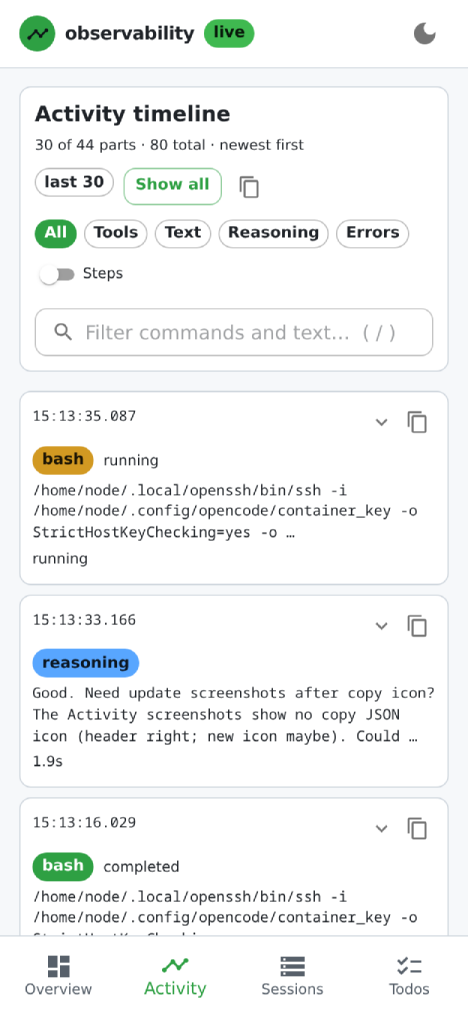
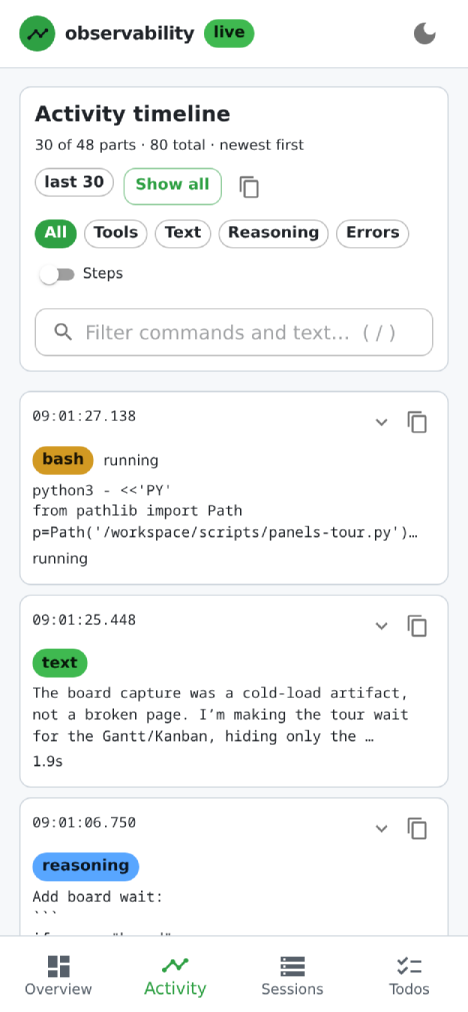
docs: refresh READMEs, screenshots, and 2026-11-05 handoff

diff --git a/scripts/panels-tour.py b/scripts/panels-tour.py
@@ -125,7 +125,17 @@ def main() -> int:
         for name, path in PANELS:
             try:
                 pg.goto(a.base + path, wait_until="domcontentloaded", timeout=30000)
-                pg.wait_for_timeout(6000)  # let SSE snapshot + charts render
+                if name == "board":
+                    try:
+                        pg.wait_for_selector("#boardgantt svg", timeout=60000)
+                    except Exception:
+                        pg.wait_for_timeout(2000)
+                else:
+                    pg.wait_for_timeout(6000)  # let SSE snapshot + charts render
+                try:
+                    pg.evaluate("var e=document.getElementById('rev'); if(e) e.style.display='none'")
+                except Exception:
+                    pass
                 shot = str(out / ("status-%s.png" % name))
                 pg.screenshot(path=shot)
                 shrink(shot, repo)

diff --git a/README.md b/README.md
@@ -6,39 +6,47 @@ through a local guard. A separate RAG repo provides local document retrieval.
 The stack runs on one host (`ws24`, `192.168.4.24`); there is no cloud control
 plane.
 
-## Latest verified state (2026-11-04)
+## Latest verified state (2026-11-05)
 
-- The web UI and the `:5099` dashboard are running. The dashboard streams
-  cost, todos, and one combined **activity timeline** (the old Live activity and
-  diagnostic timeline are merged): newest first, filter chips, 30/all toggle,
-  per-row expand/copy, start dot on the time axis, relative-duration bar, exact
-  duration, full command/text, and a moving "now" line. It is responsive at
-  390 px and has an installable PWA shell for Android Chrome. A **separate
-  MUI/React app** is available at `/app/` (source `web/`; build with
-  `cd web && npm ci && npm run build`).
+- The web UI, legacy dashboard `/`, and MUI app `/app/` are live. Canonical
+  access: `https://10.100.0.24:5099/app/` (MUI), `https://10.100.0.24:5099`
+  (legacy dashboard), or 443 `https://10.100.0.24/app/`. The 443 site redirects
+  `/5099` and `/4096` to the real ports. `:4096` is the agent UI behind Basic
+  auth (`401` is alive).
+- The combined **activity timeline** is live on both UIs: newest first, filters,
+  30/all, expand/copy, full command/text, exact duration, start dot, relative
+  bar, and a **`time · now`** legend with a red marker. Legacy and MUI headers
+  no longer collide.
+- TLS is redundant and verified: 443/4096/5099 on loopback, Nebula
+  (`10.100.0.24`), LAN (`192.168.4.24`), and Tailscale
+  (`100.119.125.16`); SANs cover all of them. The public CA is downloadable at
+  `/ca.crt`; the PC was trusted for system, Firefox, and Chromium stores.
+- `https-selfheal.sh` checks/repairs SANs, Caddy, ports, CA, CORS/PNA, and the
+  dashboard; `trust-ca-client.sh` bootstraps a client CA. Both pass on the host
+  and the client check passes on the PC.
+- MUI/React `web/` is served at `/app/`; the public Pages app
+  <https://swipswaps.github.io/opencode-observability/> probes the live API and
+  falls back to real captured screenshots when the private API is unreachable.
 - LiteLLM has a private Postgres. The admin UI at `127.0.0.1:4000/ui` accepts
   `admin` + `LITELLM_MASTER_KEY` (HTTP 200); `/v1/models` is 200.
 - Provider keys were rotated. The guard allows benign reads and denies
   destructive, exfiltration, and quote/substitution-obfuscated calls.
-- TLS was reissued with the **same local CA**, so browsers that trusted the CA
-  keep working.
-- Security posture: **16 of 19** checks pass. The 3 remaining are the
-  repo-mounted secrets (`.env.local`, `docker/litellm-db.env`,
-  `docker/certs/*`); the empty binds in the override clear them on the next
-  `web-restart.sh --recreate` (expect 19/0).
-- Artifact scan: **0 findings in 2224 files**.
-- Gates: fast harness **3/0 in 73s**; lint **328/0**; test-hygiene **63/0**;
-  dashboard inline-script execution test **PASS** (home + explore).
+- Security posture remains **16 of 19** pending the staged SEC-3 recreate
+  (repo-mounted secrets; expect 19/0 after).
+- Verified gates: lint **335/0**, README audit **8/0**, panels **12/12**,
+  inline UI/PWA test PASS, `certs-verify` ALL PASS, `https-selfheal --check`
+  ALL PASS, PC strict TLS 200/verify=0 on 5099 + 443 + LAN.
 
 ## Start here (first 10 minutes)
 
 If you are new, read in this order:
 
 1. this README (what exists and how to start it),
-2. [`HANDOFF.md`](HANDOFF.md) (current state, open risks),
-3. [`RULES.md`](RULES.md) (constraints the scripts enforce),
-4. [`TODO.md`](TODO.md) (what is queued),
-5. [`scripts/README.txt`](scripts/README.txt) (one entry per tool).
+2. [`docs/HANDOFF-2026-11-05.md`](docs/HANDOFF-2026-11-05.md) (current handoff),
+3. [`HANDOFF.md`](HANDOFF.md) (durable history and PINs),
+4. [`RULES.md`](RULES.md) (constraints the scripts enforce),
+5. [`TODO.md`](TODO.md) (what is queued),
+6. [`scripts/README.txt`](scripts/README.txt) (one entry per tool).
 
 Minimal path:
 
@@ -52,16 +60,18 @@ cd ~/Documents/9e3e0363-0237-4c38-93dc-ce25e2f1ec37/repo
 ./scripts/harness.sh --fast   # gates, telemetry, cost, TODO
 ```
 
-Then open the agent at `https://127.0.0.1:4096` and the read-only dashboard at
-`https://127.0.0.1:5099` (Basic auth from `.env.local`; `401` from a bare
-`curl` means the server is alive).
+Then open the agent at `https://10.100.0.24:4096` (Basic auth from
+`.env.local`) and the dashboard at `https://10.100.0.24:5099`. The MUI app is
+`/app/`; use `https://10.100.0.24/app/` (443) if you want no port. Trust the CA
+once with `./scripts/trust-ca-client.sh --server https://10.100.0.24:5099` or
+download `/ca.crt`. `10.100.0.1` is the client PC, not the server.
 
 ## What runs where
 
 | Piece | Type | Where | Address | What it does |
 |---|---|---|---|---|
 | `opencode-web` | container | Docker | `:4096`, `:5099` | agent web UI + dashboard sidecar |
-| `caddy` | container | Docker | `:443`, `:4096`, `:5099` | TLS edge; binds host IPs |
+| `caddy` | container | Docker | `:443`, `:4096`, `:5099` | TLS edge; loopback + Nebula + LAN + Tailscale |
 | `litellm` | container | Docker | `127.0.0.1:4000` | local model proxy / master key |
 | `litellm-db` | container | Docker | internal | private Postgres for proxy auth + spend |
 | `opencode-grafana` | container | Docker | `127.0.0.1:3001` | optional ops view (may be paused) |
@@ -102,6 +112,9 @@ Data lives under `data/` (`opencode/` store, `observability/` logs and DBs).
 | run the adversarial gate | `./scripts/red-team.sh` (`--offline` skips SubQ) |
 | audit security posture | `./scripts/security-posture.sh` |
 | rotate the TLS leaf (same CA) | `./scripts/rotate-tls.sh --apply --yes` |
+| monitor/self-heal HTTPS + CA | `./scripts/https-selfheal.sh --check` / `--fix --watch` |
+| trust the CA on the PC | `./scripts/trust-ca-client.sh --server https://10.100.0.24:5099` |
+| refresh screenshots | `python3 scripts/panels-tour.py --no-video` |
 | scrub leaked artifacts | `./scripts/scrub-secrets.sh --apply --yes --purge-snapshots --purge-env-backups` |
 | inspect model policy/cost | `./scripts/models.sh`, `./scripts/cost.sh` |
 | use the RAG engine | `cd ../2282af3557819803/repo/production-local-rag && ./scripts/04-retrieval-only.sh --query "..."` |
@@ -382,10 +395,11 @@ returns `[]`); use Chrome's **Install app** after trusting the local CA:
 
 The full React version lives in `web/` (React 19 + Material UI 9.5 + Vite 8).
 It reuses the same `/api/*` endpoints and has an Overview (including a 14-day
-cost trend), Activity timeline (steps hidden by default; `/` focuses search),
-Sessions (sort by recent/cost/tokens/duration), and Todos. Desktop uses a
-permanent MUI Drawer; under `md` it uses a MUI `BottomNavigation`; rows/cards
-stack at 390 px; Chrome's install prompt is wired to a visible Install action.
+cost trend), Activity timeline (steps hidden by default; `/` focuses search;
+`time · now`/relative-duration axis), Sessions (sort by recent/cost/tokens/
+duration), and Todos. Desktop uses a permanent MUI Drawer; under `md` it uses a
+MUI `BottomNavigation`; rows/cards stack at 390 px; Chrome's install prompt is
+wired to a visible Install action. Hash routes preserve the view.
 Build once:
 
 ```bash
@@ -395,16 +409,16 @@ cd web && npm ci && npm run build
 `scripts/dashboard.mjs` serves `web/dist` at `/app/` and the hashed assets under
 `/app/assets/*`; `/app-manifest.webmanifest` sets `start_url=/app/`. See
 [`web/README.md`](web/README.md) for dev/PWA notes. The app is also installable (`Page.getInstallabilityErrors: []`) and the build is
-570 kB minified / 176 kB gzip. The legacy no-build page at `/` remains.
+571 kB minified / 176 kB gzip. The legacy no-build page at `/` remains.
 
-A standalone **public Pages screenshot preview** is live at
+A standalone **public Pages app** is live at
 <https://swipswaps.github.io/opencode-observability/> (repo
-`swipswaps/opencode-observability`). GitHub Pages cannot reach the local API,
-so that build shows real captures from the live UI (`status-mui-*.png`) and
-makes no API calls or fake metrics. When the local API is reachable from the
-browser, the Pages app auto-detects it and renders live data instead; the
-dashboard permits only `https://swipswaps.github.io` via CORS/PNA. The local
-`/app/` keeps the live APIs.
+`swipswaps/opencode-observability`). It probes `https://10.100.0.24:5099` and
+renders the live MUI shell when the browser permits private-network access and
+trusts the CA; otherwise it shows real captures from the live UI
+(`status-mui-*.png`), never synthetic metrics. The dashboard permits only
+`https://swipswaps.github.io` via CORS/PNA. The local `/app/` keeps the live
+APIs. The new repo's Pages deploy is active and monitored with `gh`.
 
 ![MUI Overview](docs/ux/status-mui-desktop.png)
 

diff --git a/docs/HANDOFF-2026-11-05.md b/docs/HANDOFF-2026-11-05.md
@@ -1,0 +1,77 @@
+# Handoff — 2026-11-05
+
+**Status:** live and verified. Code baseline `b4a3d86`; this documentation
+commit is the handoff record. Read `README.md`, `RULES.md`, and `TODO.md` for
+the larger system; this file is the current operational handoff.
+
+## What is running
+
+| Surface | URL | Notes |
+| --- | --- | --- |
+| Legacy dashboard | `https://10.100.0.24:5099/` | combined Activity timeline, Flags, sessions, PWA |
+| MUI app | `https://10.100.0.24:5099/app/` | React 19 + MUI 9.5 + Vite 8; live API |
+| MUI app via 443 | `https://10.100.0.24/app/` | no port; same dashboard |
+| Agent UI | `https://10.100.0.24:4096/` | Basic auth; `401` means alive |
+| Public Pages | https://swipswaps.github.io/opencode-observability/ | probes live API; otherwise real screenshots |
+| CA | `https://10.100.0.24:5099/ca.crt` (or `/ca.crt`) | public CA download |
+
+`10.100.0.1` is the **PC client** on `nebula0`, not a server. The host is
+`10.100.0.24` (Nebula), `192.168.4.24` (LAN), and `100.119.125.16` (Tailscale).
+Caddy serves 443/4096/5099 on all of those plus loopback. The 443 site redirects
+path-style `/5099` and `/4096` to the real ports.
+
+## Changes in this segment
+
+- Combined Live activity + Diagnostic timeline into one Activity timeline
+  (filters, Steps switch, `/` search, expand/copy, time dot, relative duration,
+  exact duration, full detail).
+- Fixed the `now`/timestamp collision in both UIs: the header is now
+  `time · now` with a red marker, not a red label over the ticks.
+- Added the MUI app (`web/`), hash routes, Android bottom navigation, Overview
+  14-day trend, Sessions sorting, Todos, install prompt, and PWA.
+- Added `/app/` Pages-capable CORS/PNA for `https://swipswaps.github.io`.
+- Created `swipswaps/opencode-observability` as a standalone public Pages app:
+  auto-probes `https://10.100.0.24:5099`; falls back to real screenshots, never
+  synthetic metrics. Its Pages workflow is successful.
+- Added host TLS redundancy: 443, Nebula/LAN/Tailscale binds, SANs for all,
+  `/ca.crt`, and 301 path redirects.
+- Added `scripts/https-selfheal.sh` and `scripts/trust-ca-client.sh`.
+- Trusted the CA on the PC (system, Firefox, Chromium); strict TLS now verifies
+  on `:5099`, 443, and LAN.
+- Regenerated all 12 screenshots and synced the four MUI shots to the Pages repo.
+
+## Verified evidence (2026-11-05)
+
+- `certs-verify.sh`: ALL CHECKS PASSED; SANs include localhost, 127.0.0.1,
+  `10.100.0.24`, `192.168.4.24`, `100.119.125.16`.
+- `https-selfheal.sh --check`: cert, Caddy, CA, 443/5099 on all transports,
+  dashboard API, and CORS/PNA preflight PASS.
+- `trust-ca-client.sh --check` on the PC: CA fingerprint printed, strict
+  `https://10.100.0.24:5099/api/rev` PASS.
+- PC strict curls: `:5099` 200/verify=0, 443 200/verify=0, LAN 200/verify=0.
+- Legacy + `/app/` browser loads: zero page errors; live data rendering.
+- Lint `335/0`; README audit `8/0`; panels `12/12`; inline UI/PWA test PASS.
+- `security-posture.sh` remains **16/3** (staged SEC-3 recreate; expect 19/0).
+
+## Open risks / next actions
+
+1. **SEC-3 recreate:** `./scripts/web-restart.sh --recreate` applies the staged
+   empty secret binds and `/rag:ro`; it drops the current session. Then
+   `security-posture.sh` should be 19/0, and run `red-team.sh`.
+2. **PC checkout is not a git repo.** The trust script was copied over SSH;
+   future script updates need a direct copy (or make it a clone). The PC trust
+   itself is installed.
+3. **Local-network permission:** Chrome may still block public Pages → private
+   API; use **Open live app** or allow local-network access. The screenshot
+   fallback is intentional.
+4. **4096 Basic auth:** credentials are in `.env.local`; do not print them.
+5. **Environment split:** app and agent still share env; prompt injection is
+   model-level; the guard is defense-in-depth.
+6. **Other Pages:** receipts-ocr, receipts-ocr-rag, and receipts-ocr-rag-v2 are
+   unchanged in this segment. Their prior app/deploy checks remain; do not
+   modify them without an explicit request.
+7. **MUI X Charts** remains optional; current Overview uses a native trend.
+
+## Next session prompt
+
+Use [`docs/HANDOFF-PROMPT-2026-11-05.txt`](HANDOFF-PROMPT-2026-11-05.txt).

diff --git a/docs/UX-MOBILE-AUDIT.md b/docs/UX-MOBILE-AUDIT.md
@@ -1,4 +1,4 @@
-# Observability UX / Android / MUI audit — 2026-11-04
+# Observability UX / Android / MUI audit — 2026-11-05
 
 Scope: the `:5099` dashboard. "Android support" is interpreted as a responsive,
 installable web app in Chrome on Android (not a native APK). A Trusted Web
@@ -88,7 +88,7 @@ contracts and has its own `/app-manifest.webmanifest` with
 - Layout: permanent MUI Drawer at `md+`, MUI `BottomNavigation` under `md`;
   the AppBar/drawer/bottom nav respect safe areas.
 - The legacy `/` page still exists; `/app/` is linked from the primary nav.
-- Trade-off: the MUI bundle is 569.6 kB minified / 175.8 kB gzip, plus a build step.
+- Trade-off: the MUI bundle is ~571 kB minified / ~176 kB gzip, plus a build step.
   That is acceptable for the richer app but not ideal to force on the tiny
   read-only fallback page.
 
@@ -138,24 +138,32 @@ Legacy `/`:
   `docs/ux/status-mobile.png` (390 px card).
 
 MUI `/app/`:
-- `npm run build`: 569.6 kB minified / 175.8 kB gzip; no build errors.
+- `npm run build`: ~571 kB minified / ~176 kB gzip; no build errors.
 - Desktop and 390 px Playwright: zero page errors, zero console errors.
 - Mobile: document width `390 = innerWidth`, activity rows render, Sessions
   (123) and Todos (5) render, bottom navigation is fixed at 64 px + safe area,
   and the filter chips wrap instead of overflowing.
 - `/app-manifest.webmanifest` `200 application/manifest+json`; app service
   worker registration `1`; Chrome `Page.getInstallabilityErrors` `[]`.
-- Screenshots: `docs/ux/status-mui-desktop.png`,
+- Activity header: `time · now` legend + red marker; no overlapping `now` text.
+- Screenshots (refreshed 2026-11-05): `docs/ux/status-mui-desktop.png`,
   `docs/ux/status-mui-activity-desktop.png`,
   `docs/ux/status-mui-mobile.png`, `docs/ux/status-mui-activity.png`.
+- Public Pages app: <https://swipswaps.github.io/opencode-observability/>.
+  It probes the live API with CORS/PNA; when unreachable it shows the same real
+  screenshots. No synthetic metrics are served.
+- TLS/CA: 443/4096/5099 on loopback + Nebula + LAN + Tailscale; cert SANs
+  cover all; `/ca.crt` is downloadable. `https-selfheal.sh --check` and the
+  PC's `trust-ca-client.sh --check` pass.
 
 ## MUI app follow-ups
 
-1. Add MUI X Charts (`@mui/x-charts`) for cost burn-down / per-day trends.
+1. MUI X Charts (`@mui/x-charts`) remains optional; the Overview currently
+   uses a small native 14-day cost trend so no extra runtime bundle is needed.
 2. Hash deep links are implemented (`#overview`, `#activity`, `#sessions`,
    `#todos`), so Android back/refresh preserves the view; move to React Router
    if path routes become necessary.
-3. Code-split the MUI bundle if the 550 kB warning becomes a problem.
+3. Code-split the MUI bundle if the ~571 kB warning becomes a problem.
 4. Decide whether to make `/app/` the primary PWA `start_url` after the legacy
    page is retired; both manifests are currently installable separately.
 5. Keep the common `/api/*` contracts and the server's read-only posture.

diff --git a/web/README.md b/web/README.md
@@ -24,8 +24,9 @@ npm run dev -- --host 0.0.0.0
 # http://127.0.0.1:5174/app/
 ```
 
-Vite proxies `/api`, `/manifest.webmanifest`, and the icons to
-`https://127.0.0.1:5099` (self-signed cert accepted for local dev).
+Vite proxies `/api` to `https://127.0.0.1:5099` (self-signed cert accepted
+for local dev). The production app is served at `/app/` by `dashboard.mjs`.
+The public Pages build lives in the separate `opencode-observability` repo.
 
 ## What it shows
 
@@ -34,7 +35,7 @@ Vite proxies `/api`, `/manifest.webmanifest`, and the icons to
 - **Activity timeline** — the same `/api/activity` rows: newest first, filters
   (All/Tools/Text/Reasoning/Errors), a Steps switch (off by default), `/`
   focuses search, last-30/all, expand/collapse, copy, duration, and a
-  start-dot/relative-bar timeline on desktop.
+  start-dot/relative-bar timeline with a `time · now` axis on desktop.
 - **Sessions** — `/api/sessions?limit=200`, search, sort by recent/cost/tokens/
   duration, cost/tokens/model/update, desktop table and mobile cards, links into
   the OpenCode session URL.
@@ -58,23 +59,32 @@ on a 60 s interval.
   view through Android back/refresh; the desktop drawer also links to the
   classic `/` view.
 - Current verification: zero page/console errors; 390 px width = viewport;
-  installability `[]`.
+  installability `[]`; strict TLS 200 on 5099/443/LAN after the CA import.
 
 ## Tests / evidence
 
 - `npm run build` (Vite build is the source-level gate).
 - Playwright (host browser) exercised Overview, Activity, Sessions (123 rows),
   Todos (5), desktop 1280×900 and mobile 390×844.
-- Screenshots:
+- Screenshots (refreshed 2026-11-05):
   - `docs/ux/status-mui-desktop.png`
   - `docs/ux/status-mui-activity-desktop.png`
   - `docs/ux/status-mui-mobile.png`
   - `docs/ux/status-mui-activity.png`
+- Public Pages app: <https://swipswaps.github.io/opencode-observability/>
+  (auto-probes the API; falls back to these real screenshots).
 
 ## Libraries / notes
 
 - MUI 9.5, React 19.3, Emotion 11.14, Vite 8.3.
 - No MUI X dependency yet. Add `@mui/x-charts` for burn-down/trend charts.
-- The bundle is ~550 kB minified / ~171 kB gzip; code-split if it grows.
+- The bundle is ~571 kB minified / ~176 kB gzip; code-split if it grows.
 - The app is read-only and uses the server's existing API/CSP. Do not put
   secrets in this app; it is served from the same local origin.
+- Live API on Pages: Caddy allows only `https://swipswaps.github.io` with
+  CORS + Private Network Access. If the browser blocks private access, use
+  the **Open live app** link or allow local-network access; otherwise the
+  screenshot fallback is shown.
+- Host HTTPS self-heal/CA bootstrap:
+  `./scripts/https-selfheal.sh --check` and
+  `./scripts/trust-ca-client.sh --server https://10.100.0.24:5099`.

diff --git a/TODO.md b/TODO.md
@@ -4,9 +4,21 @@ Living backlog so momentum survives a session boundary. **HANDOFF.md** holds
 the durable state; **this file holds the queue.** Update the statuses and the
 date each session. Legend: `[x]` done · `[~]` in progress · `[ ]` todo.
 
-Last updated: 2026-11-04
+Last updated: 2026-11-05
 
 ## Done (most recent first)
+
+- [x] **TLS-2 / UX-7 — 2026-11-05.** Added 443 + Tailscale + LAN + Nebula TLS
+      redundancy, SAN verification, `/ca.crt`, path redirects, and the HTTPS
+      self-heal/client CA scripts. PC trust installed (system/Firefox/Chromium);
+      strict verification 200 on 5099/443/LAN. Fixed the legacy `time · now`
+      header collision and refreshed all 12 screenshots. Added the public
+      `opencode-observability` Pages app with live API probing and real
+      screenshot fallback. Handoff: `docs/HANDOFF-2026-11-05.md`.
+
+- [x] **DOCS-1 — 2026-11-05.** README, web/README, scripts catalog, UX audit,
+      handoff PIN, TODO, screenshots, and the new Pages README refreshed for
+      the current TLS/Pages/scripts state.
 
 - [x] **SEC-2 — 2026-11-04.** DB-backed LiteLLM (private postgres, admin login
       200); same-CA TLS leaf rotation after the live key matched 3 snapshots;

diff --git a/HANDOFF.md b/HANDOFF.md
@@ -1,5 +1,16 @@
 # Handoff — opencode-deepseek-jev
 
+> **PIN 2026-11-05 (UX/TLS/Pages):** live state is green. Legacy `/` and MUI
+> `/app/` both render live data; the Activity header is `time · now` with no
+> overlap. Caddy serves 443/4096/5099 on loopback + Nebula + LAN + Tailscale;
+> cert SANs cover all, `/ca.crt` is downloadable, and the PC now trusts the CA
+> (strict 200 on 5099/443/LAN). `https-selfheal.sh --check` and
+> `certs-verify.sh` pass. The public
+> <https://swipswaps.github.io/opencode-observability/> app auto-probes the live
+> API and falls back to real screenshots; no synthetic data. Screenshots were
+> refreshed 2026-11-05. SEC-3 remains 16/3 pending the explicit recreate.
+> Current handoff: [`docs/HANDOFF-2026-11-05.md`](docs/HANDOFF-2026-11-05.md).
+
 > **PIN 2026-11-04 (SEC-3 / HANDOFF):** verified: LiteLLM DB login 200, TLS
 > leaf rotated (same CA), artifact scan 0/2224, red-team offline+live, readme
 > audits 8/0 and 6/0, harness 4/0, `security-posture.sh` **16/3** on the
